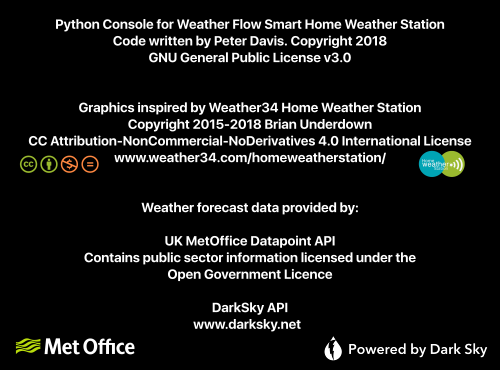
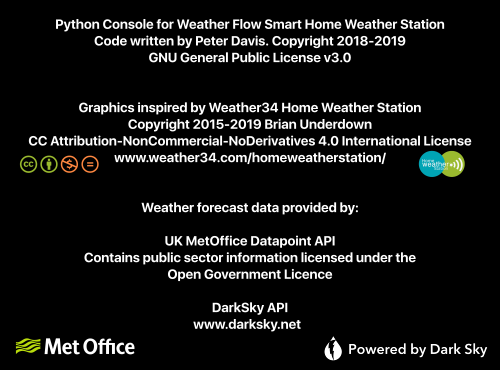
Updating license information and README

Changed region(s): [[0.18, 0.0892, 0.81, 0.1486], [0.51, 0.327, 0.54, 0.3568]]

diff --git a/lib/configCreate.py b/lib/configCreate.py
@@ -1,6 +1,18 @@
 """ Defines the configuration .ini files required by the Raspberry Pi Python
-console for Weather Flow Smart Home Weather Stations.
-Copyright (C) 2018  Peter Davis
+console for Weather Flow Smart Home Weather Stations. 
+Copyright (C) 2018-2019  Peter Davis
+
+This program is free software: you can redistribute it and/or modify it under 
+the terms of the GNU General Public License as published by the Free Software 
+Foundation, either version 3 of the License, or (at your option) any later 
+version.
+
+This program is distributed in the hope that it will be useful, but WITHOUT ANY 
+WARRANTY; without even the implied warranty of MERCHANTABILITY or FITNESS FOR A 
+PARTICULAR PURPOSE.  See the GNU General Public License for more details.
+
+You should have received a copy of the GNU General Public License along with 
+this program.  If not, see <http://www.gnu.org/licenses/>.
 """
 
 # Import required modules

diff --git a/main.py b/main.py
@@ -1,5 +1,5 @@
 # WeatherFlow PiConsole: Raspberry Pi Python console for Weather Flow
-# Smart Home Weather Station. Copyright (C) 2018  Peter Davis
+# Smart Home Weather Station. Copyright (C) 2018-2019  Peter Davis
 
 # This program is free software: you can redistribute it and/or modify it under
 # the terms of the GNU General Public License as published by the Free Software

diff --git a/README.md b/README.md
@@ -7,7 +7,7 @@ to the console, including the 3-second rapid fire wind updates.
 
 Many of the graphical elements in the console are based on the Weather34 Home
 Weather Station Template (https://www.weather34.com/homeweatherstation/) copyright
-2015-2018 Brian Underdown. The Weather34 Home Weather Station Template is licensed
+2015-2019 Brian Underdown. The Weather34 Home Weather Station Template is licensed
 under a Creative Commons Attribution-NonCommercial-NoDerivatives 4.0 International 
 License.
 
@@ -21,15 +21,7 @@ PiConsole. These instructions assume you have installed the PiConsole in the
 default directory (~/wfpiconsole/). If you have installed the PiConsole in a 
 different location, I assume you know what you are doing!
 
-**!!WARNING!!** - Updating the code will overwrite/delete all files in the 
-existing version, including the WeatherFlow_PiConsole.ini configuration file. 
-This is expected behaviour as I am likely to update the .ini file from time to 
-time, as well as delete files that are no longer needed. Before running the 
-update, I suggest you make a backup of your existing WeatherFlow_PiConsole.ini 
-file, as well as any local modifications you may have made.
-
 ```
-rm -rf ~/wfpiconsole/*
 cd ~/wfpiconsole/
 wget https://api.github.com/repos/peted-davis/WeatherFlow_PiConsole/tarball -O PiConsole.tar.gz
 tar -xvf PiConsole.tar.gz --strip 1
@@ -183,64 +175,46 @@ tar -xvf PiConsole.tar.gz --strip 1
 rm PiConsole.tar.gz
 ```
 
-### Step 9: Configure WeatherFlow PiConsole
+### Step 9: Configure and Run WeatherFlow PiConsole
 
-To get the WeatherFlow PiConsole up and running, you need to specify your 
-station number in the configuration file, as well as one API key needed to
-determine the the station location (country) from its latitude/longitude, one 
-needed to download an apppropriate weather forecast, and one needed to download 
-the closest METAR information to your station location.
+To get the WeatherFlow PiConsole up and running, you need to register for a 
+number of API keys. One API key is needed determine the the station location 
+(country) from its latitude/longitude, one needed to download an apppropriate 
+weather forecast, and one needed to download the closest METAR information to 
+your station location.  
 
-First, open the PiConsole .ini file:
-
-```
-nano WeatherFlowPiConsole.ini
-```
-	
-Then, go to http://www.geonames.org/login and register for a new account. Once
+First, go to http://www.geonames.org/login and register for a new account. Once
 you have registered, go to your account (http://www.geonames.org/manageaccount)
-and activate "Free Web Services". Once this is done, type your username into the
-'GeoNamesKey' variable in WeatherFlowPiConsole.ini. Do not enclose your username
-in quotation marks!
+and activate "Free Web Services". Once this is done, your username will be your
+'GeoNames' API key.
 
-Second, if you live in the UK go to the UK MetOffice DataPoint homepage
-(https://www.metoffice.gov.uk/datapoint), and register for a new account. Copy
-your API key into the 'MetOfficeKey' variable in WeatherFlowPiConsole.ini. Again
-no quotation marks.
+Next, if you live in the UK go to the UK MetOffice DataPoint homepage
+(https://www.metoffice.gov.uk/datapoint), and register for a new account. You'll
+be given an API key that will be you 'MetOffice' API key.
 
-If you live outside the UK, leave the 'MetOfficeKey' variable blank and register
-instead for a DarkSky API account (https://darksky.net/dev/register). Copy your
-API key into the 'DarkSkyKey' variable.
+If you live outside the UK, register instead for a DarkSky API account 
+(https://darksky.net/dev/register). This will be your 'DarkSky' API key. The 
+console requires you to enter either a MetOffice API key or a DarkSky API key.
 
-Finally go to CheckWX Aviation Weather and register for a free API key that will
-enable access to the closest METAR information to you station location.
-(https://www.checkwx.com/signup). Copy your API key into the 'CheckWXKey' 
-variable.  
+Finally go to CheckWX Aviation Weather and register to enable access to the 
+closest METAR information to you station location. 
+(https://www.checkwx.com/signup). This will be your 'CheckWX' key.
 
-You should now have a username in the 'GeoNamesKey' variable, an API key in
-either the 'MetOfficeKey' variable if you live in the UK, or in the 'DarkSkyKey' 
-variable if you live elsewhere, and an API key in the 'CheckWXKey' variable.
-Next type your station ID into the 'StationID' variable. 
-
-The console is designed to display data from the first Air and Sky module
-it finds associated with your station. If you have multiple modules, write the 
-names of the modules you wish to display in the 'AirName' and 'SkyName' 
-variables. 
-
-Leave the 'WFlowKey' as-is.
-
-Save your changes in nano:
-
-```
-ctrl-x
-y (confirms you want to save changes)
-[press enter]
-```
-	
-### Step 10: Run WeatherFlow PiConsole
-
-Time to run the WeatherFlow PiConsole:
+Once you have registered for the required API keys, go ahead and run the console
+for the first time using:
 
 ```
 python3 main.py
 ```
+
+As this is the first run, you'll be asked to enter the API keys you have just
+signed-up for above, as well as information about your station. This includes 
+your station ID and device ID for your outdoor Air and Sky modules. To find this 
+information either open the WeatherFlow app or view your station page in a web
+browser. Click on the gear icon -> Stations -> [Station name] -> Status.
+
+If all goes smoothly the console should automatically add the extra information 
+it needs to your configuration file and then start running.
+
+Congratulations, you have installed the Raspberry Pi Python console for the 
+Weather Flow Smart Home Weather Station.
